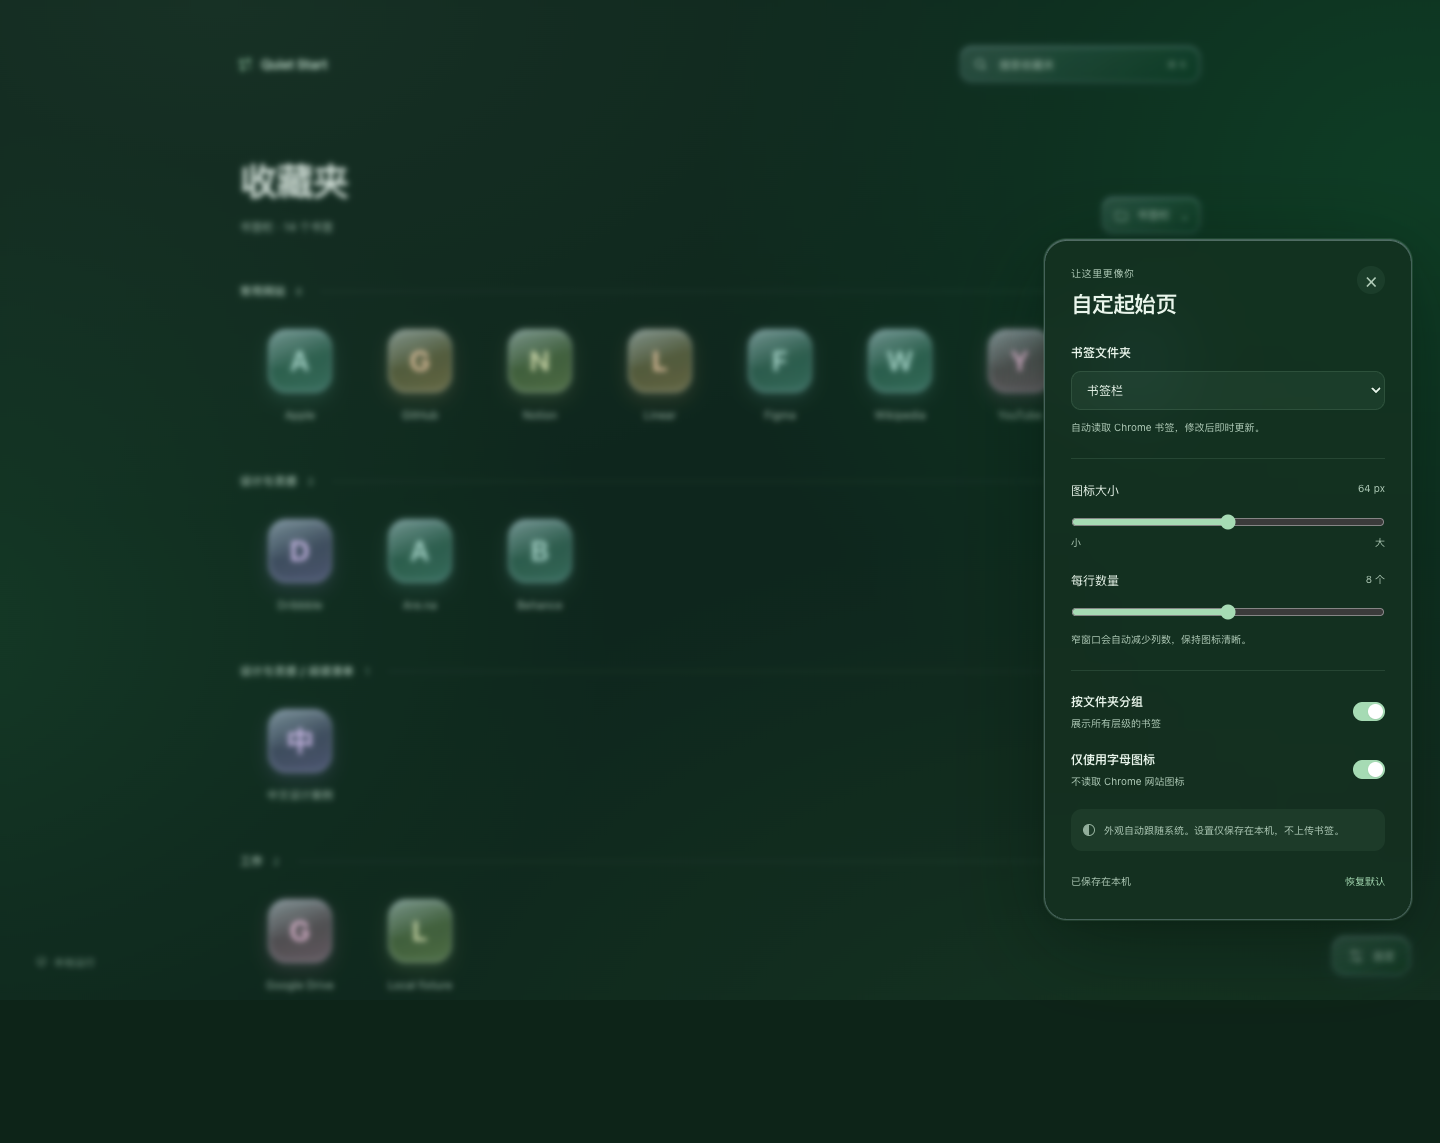
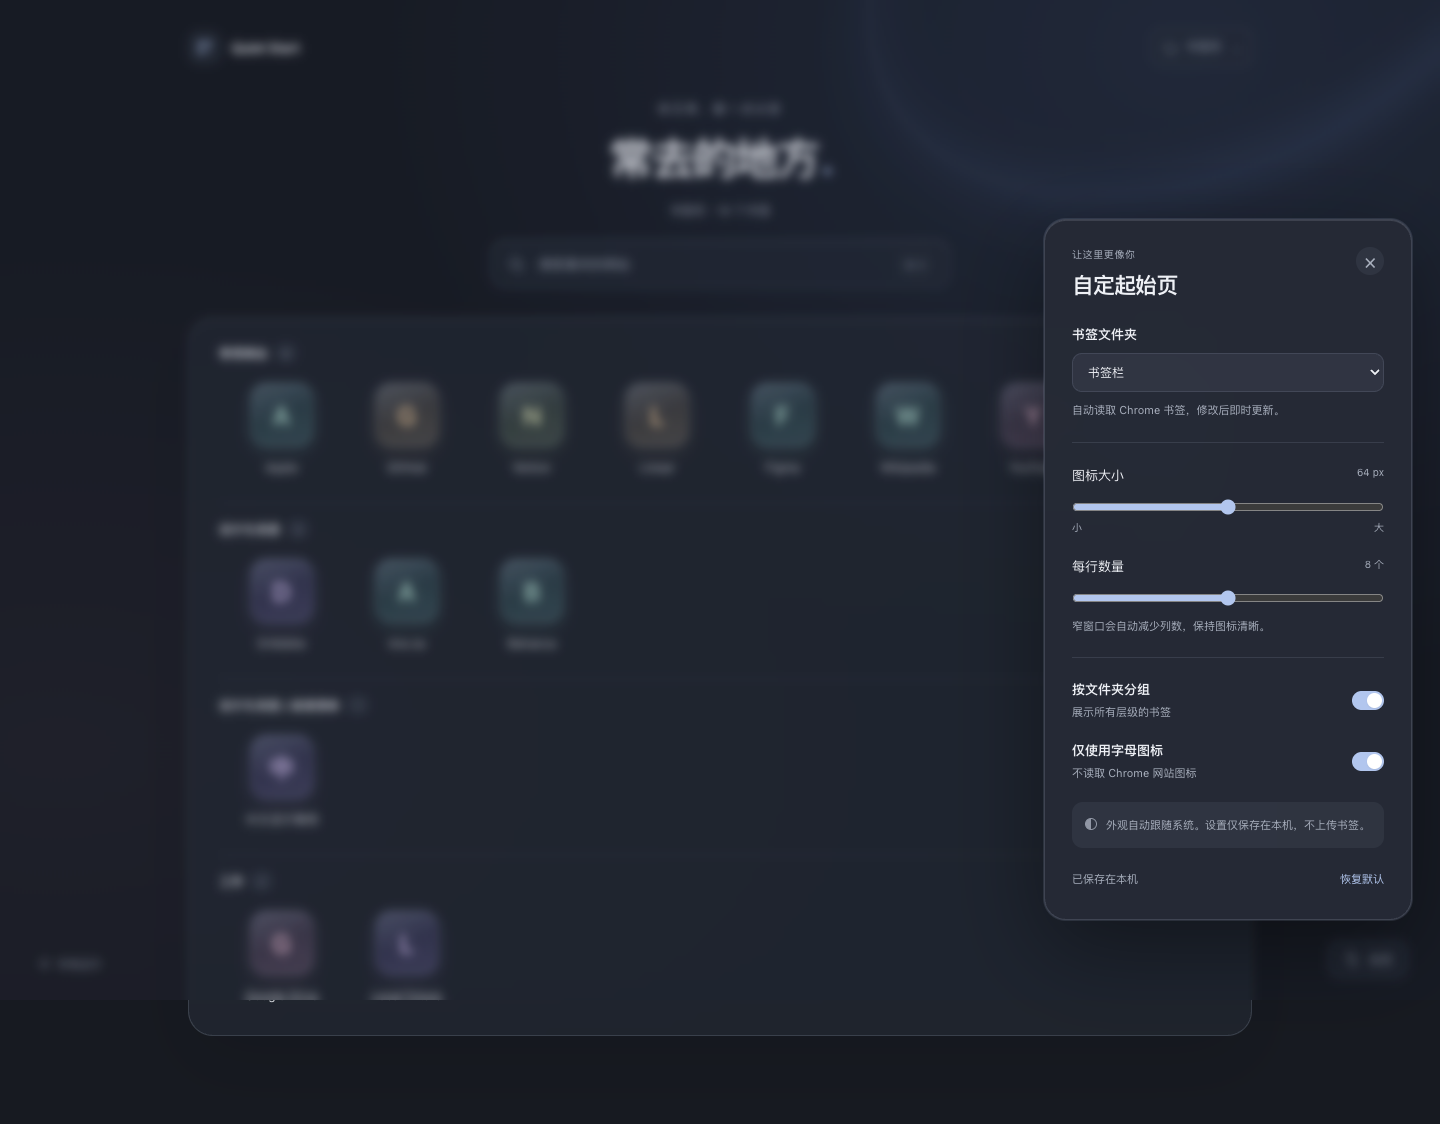
feat: release Air design with refined bookmark layout

diff --git a/styles.css b/styles.css
@@ -1,50 +1,37 @@
+/* Quiet Start — Air. Local system fonts, CSS materials, no remote assets. */
 :root {
-  color-scheme: light dark;
-  --bg: #e4efe7; --surface: #fafffb; --text: #173e2b;
-  --muted: #587461; --subtle: #728d78;
-  --line: rgba(0,86,31,.13); --soft: rgba(255,255,255,.35); --accent: #00561f;
-  --sky-blue: rgba(24,116,66,.32); --sky-mint: rgba(97,180,126,.30);
-  --sky-lilac: rgba(67,128,71,.20); --sky-white: rgba(255,255,255,.93);
-  --panel: rgba(246,253,248,.74); --panel-shadow: 0 24px 80px rgba(16,78,42,.16), 0 3px 10px rgba(16,78,42,.04);
-  --shine: rgba(255,255,255,.95); --glass-edge: rgba(255,255,255,.82);
-  --glass-top: rgba(255,255,255,.72); --glass-bottom: rgba(255,255,255,.18);
-  --glass-shine: rgba(255,255,255,.84); --glass-inner: rgba(255,255,255,.40);
-  --glass-rim: rgba(255,255,255,.96); --glass-base: rgba(255,255,255,.14);
-  --tile-top: .20; --tile-bottom: .40; --tile-shadow: .15;
-  --glyph-highlight: rgba(255,255,255,.65);
-  --tint-0: #376ca6; --tint-1: #7954a2; --tint-2: #996b37;
-  --tint-3: #397e70; --tint-4: #a35e83; --tint-5: #74803e;
-  --icon-size: 64px; --columns: 8; --cell-min: 96px; --cell-width: 112px;
-  font-family: -apple-system, BlinkMacSystemFont, "SF Pro Text", "Helvetica Neue", sans-serif;
-  font-size: 14px; -webkit-font-smoothing: antialiased;
+ color-scheme:light dark;
+ --bg:#f4f5f7; --surface:#ffffff; --text:#272b35; --muted:#68707e; --subtle:#7d8491;
+ --accent:#526b9a; --line:rgba(68,80,104,.10); --soft:rgba(89,107,143,.055);
+ --wash-blue:rgba(167,190,224,.24); --wash-warm:rgba(222,211,202,.22);
+ --panel:rgba(253,254,255,.94); --panel-shadow:0 30px 90px #27394a22,0 4px 12px #27394a0a;
+ --shine:rgba(255,255,255,.96); --glass-edge:rgba(255,255,255,.9);
+ --glass-top:rgba(255,255,255,.85); --glass-bottom:rgba(255,255,255,.48);
+ --glass-shine:rgba(255,255,255,.7); --glass-inner:rgba(255,255,255,.55); --glass-rim:rgba(255,255,255,.96); --glass-base:rgba(255,255,255,.25);
+ --board:rgba(255,255,255,.64); --board-shadow:0 24px 70px rgba(42,60,86,.035);
+ --tile-top:.025; --tile-bottom:.12; --tile-shadow:.08; --glyph-highlight:#fff;
+ --tint-0:#496b96; --tint-1:#77658e; --tint-2:#9b7849; --tint-3:#47786b; --tint-4:#98687c; --tint-5:#798048;
+ --icon-size:64px; --columns:8; --cell-min:96px; --cell-width:112px;
+ font-family:-apple-system,BlinkMacSystemFont,"SF Pro Text","PingFang SC","Helvetica Neue",sans-serif;
+ font-size:14px; -webkit-font-smoothing:antialiased;
 }
-@media (prefers-color-scheme: dark) {
-  :root {
-    --bg: #0d2418; --surface: #1d3c29; --text: #e9f5eb; --muted: #b0cbb8; --subtle: #8baa94;
-    --line: rgba(166,215,179,.13); --soft: rgba(185,249,204,.055); --accent: #a6dbb4;
-    --sky-blue: rgba(13,111,51,.32); --sky-mint: rgba(42,128,69,.23);
-    --sky-lilac: rgba(42,98,46,.24); --sky-white: rgba(70,111,80,.16);
-    --panel: rgba(23,48,33,.80); --panel-shadow: 0 24px 90px rgba(0,18,6,.38), 0 3px 10px rgba(0,18,6,.14);
-    --shine: rgba(222,244,255,.30); --glass-edge: rgba(211,237,255,.26);
-    --glass-top: rgba(218,240,255,.16); --glass-bottom: rgba(210,235,255,.025);
-    --glass-shine: rgba(225,245,255,.32); --glass-inner: rgba(220,243,255,.13);
-    --glass-rim: rgba(222,242,255,.36); --glass-base: rgba(193,227,255,.045);
-    --tile-top: .28; --tile-bottom: .44; --tile-shadow: .17; --glyph-highlight: rgba(0,10,25,.25);
-    --tint-0: #bfdefb; --tint-1: #e0c9fa; --tint-2: #f6d1a8;
-    --tint-3: #b8e8d9; --tint-4: #f4c5df; --tint-5: #e0e9b4;
-  }
+@media (prefers-color-scheme:dark) {
+ :root {
+  --bg:#171a21; --surface:#303641; --text:#eef0f5; --muted:#a8afbd; --subtle:#929cac; --accent:#b2c6ee;
+  --line:rgba(190,205,235,.12); --soft:rgba(190,205,235,.065);
+  --wash-blue:rgba(68,91,138,.23); --wash-warm:rgba(92,73,88,.13);
+  --panel:rgba(37,42,53,.96); --panel-shadow:0 30px 90px #0006;
+  --shine:rgba(230,239,255,.12); --glass-edge:rgba(218,231,255,.14);
+  --glass-top:rgba(210,226,255,.12); --glass-bottom:rgba(210,226,255,.025);
+  --glass-shine:rgba(210,226,255,.12); --glass-inner:rgba(220,233,255,.1); --glass-rim:rgba(220,233,255,.24); --glass-base:rgba(210,226,255,.03);
+  --board:rgba(35,40,51,.69); --board-shadow:0 24px 70px rgba(0,0,0,.1);
+  --tile-top:.12; --tile-bottom:.21; --tile-shadow:.08; --glyph-highlight:transparent;
+  --tint-0:#b5ccef; --tint-1:#cebbeb; --tint-2:#e6c396; --tint-3:#acd6c9; --tint-4:#dfb4c9; --tint-5:#d0d5ac;
+ }
 }
 * { box-sizing: border-box; }
 [hidden] { display: none !important; }
-body {
-  margin: 0; min-width: 280px; min-height: 100vh; background: var(--bg); color: var(--text);
-  background-image:
-    radial-gradient(ellipse 75% 65% at 15% 0%, var(--sky-white), transparent 80%),
-    radial-gradient(ellipse 65% 85% at 98% 18%, var(--sky-blue), transparent 76%),
-    radial-gradient(ellipse 65% 65% at -8% 62%, var(--sky-mint), transparent 78%),
-    radial-gradient(ellipse 85% 80% at 80% 112%, var(--sky-lilac), transparent 76%);
-  background-attachment: fixed;
-}
+body { margin:0; min-width:280px; min-height:100vh; color:var(--text); background:var(--bg); background-image:radial-gradient(ellipse at 82% 5%,var(--wash-blue),transparent 48%),radial-gradient(ellipse at 4% 75%,var(--wash-warm),transparent 48%); background-attachment:fixed; }
 button, input, select { font: inherit; }
 button, select, input[type=range], input[type=checkbox] { cursor: pointer; }
 button { color: inherit; -webkit-tap-highlight-color: transparent; }
@@ -176,22 +163,74 @@ input[role=switch]:checked::after { transform: translateX(13px); }
 .theme-indicator { width: 12px; height: 12px; flex: none; border: 1px solid currentColor; border-radius: 50%; margin-top: 3px; background: linear-gradient(90deg,currentColor 50%,transparent 50%); opacity: .8; }
 .dialog-footer { display: flex; justify-content: space-between; align-items: center; margin-top: 18px; font-size: 10px; color: var(--muted); }
 .dialog-footer .text-button { font-size: 10px; }
-@media (max-width: 720px) {
-  .page-shell { padding: 30px 24px 110px; }
-  .page-heading { margin-top: 58px; margin-bottom: 38px; }
-  h1 { font-size: 34px; }
-  .search-box { width: 210px; }
-  .page-footer { display: none; }
+
+/* A calm, centered start page with one translucent collection surface. */
+.ambient-shape { position:fixed; pointer-events:none; z-index:-1; width:760px; height:760px; top:-470px; left:calc(50% + 120px); border:1px solid var(--glass-edge); border-radius:50%; box-shadow:inset 0 -24px 65px var(--wash-blue),0 24px 60px var(--wash-blue); transform:rotate(-30deg) scaleY(.65); }
+.page-shell { max-width:1160px; padding:28px 48px 88px; }
+.topbar { min-height:38px; }
+.wordmark { color:var(--text); font-size:14px; font-weight:600; letter-spacing:-.035em; gap:10px; }
+.brand-mark { transform:none; grid-template-columns:repeat(2,5px); gap:3px; padding:9px; border-radius:11px; background:var(--board); border:1px solid var(--glass-edge); box-shadow:0 2px 5px #364b6c06; }
+.brand-mark i { width:5px; height:5px; border-radius:1.5px; }
+.folder-chip { margin:0; border-radius:12px; background:var(--board); box-shadow:0 2px 5px #364b6c03; color:var(--muted); max-width:45%; }
+.folder-chip .quick-folder-select { padding-top:10px; padding-bottom:10px; font-size:12px; }
+.page-heading { justify-content:center; text-align:center; margin:34px 0 20px; }
+.hero-kicker { display:block; color:var(--muted); font-size:12px; letter-spacing:.15em; margin-bottom:12px; }
+h1 { font-size:44px; line-height:1.3; font-weight:650; letter-spacing:-.05em; margin:0 0 15px; }
+.title-dot { color:var(--accent); margin-left:4px; }
+#summary { font-size:12px; color:var(--muted); }
+.search-box { margin:0 auto 30px; width:460px; max-width:100%; height:48px; padding:0 17px; border-radius:15px; background:var(--board); box-shadow:inset 0 1px 0 var(--shine),0 5px 16px #33466b04; gap:12px; }
+.search-box svg { width:17px; height:17px; }
+.search-box input { font-size:13px; }
+kbd { font-size:11px; border:1px solid var(--line); border-radius:5px; padding:3px 5px; opacity:1; color:var(--subtle); }
+.collection-surface { padding:25px 30px 21px; border-radius:25px; border:1px solid var(--glass-edge); background:var(--board); box-shadow:inset 0 1px 0 var(--shine),var(--board-shadow); backdrop-filter:blur(30px); }
+.bookmark-section + .bookmark-section { margin-top:16px; padding-top:17px; border-top:1px solid var(--line); }
+.section-heading { margin:0 0 14px; gap:8px; }
+.section-heading::after { display:none; }
+.section-heading h2 { color:var(--text); font-size:12px; font-weight:600; letter-spacing:.015em; }
+.section-count { font-size:10px; padding:2px 6px; background:var(--soft); border:1px solid var(--line); border-radius:6px; color:var(--muted); }
+.bookmark-grid { row-gap:20px; }
+.bookmark { padding:7px 5px 9px; gap:12px; border-radius:15px; transition:background .18s; }
+.bookmark:hover { background:var(--soft); }
+.bookmark-icon { border-radius:calc(var(--icon-size) * .26); box-shadow:inset 0 1px 0 var(--glass-rim),inset 0 -1px 1px var(--glass-inner),0 3px 7px rgba(45,60,90,.045),0 8px 15px rgba(var(--tile-rgb),var(--tile-shadow)); }
+.bookmark-icon::before { height:65%; opacity:.55; }
+.bookmark-icon::after { opacity:.5; }
+.bookmark:hover .bookmark-icon { transform:translateY(-3px); box-shadow:inset 0 1px 0 var(--glass-rim),0 9px 18px rgba(var(--tile-rgb),.14); }
+.bookmark-letter { font-size:calc(var(--icon-size) * .40); font-weight:600; }
+.bookmark-name { font-size:12px; color:var(--text); line-height:1.5; opacity:.88; }
+.breadcrumbs { margin:0 0 22px; font-size:12px; }
+.page-footer { bottom:28px; left:38px; font-size:11px; letter-spacing:0; }
+.settings-button { right:32px; bottom:22px; border-radius:12px; height:38px; font-size:12px; background:var(--board); box-shadow:0 3px 10px #33466b06; }
+dialog { border-radius:22px; padding:27px; }
+dialog::backdrop { background:rgba(28,37,54,.12); backdrop-filter:blur(5px); }
+.field-label,.range-heading,.toggle-row strong { font-size:13px; }
+.field-help,.toggle-row small,.settings-note p,.dialog-footer,.dialog-footer .text-button { font-size:11px; }
+.settings-note { padding:13px; }
+@media (max-width:720px) {
+ .page-shell { padding:24px 24px 100px; }
+ .page-heading { margin-top:43px; }
+ h1 { font-size:38px; }
+ .collection-surface { padding:23px 16px 18px; border-radius:21px; }
+ .search-box { margin-bottom:30px; }
+ .page-footer { display:none; }
 }
-@media (max-width: 440px) {
-  .topbar { gap: 14px; }
-  .wordmark { font-size: 12px; gap: 7px; }
-  .search-box { width: 164px; }
-  kbd { display: none; }
-  .page-heading { gap: 12px; }
-  .folder-chip { max-width: 45%; }
-  .page-eyebrow { font-size: 10px; letter-spacing: .035em; }
-  .settings-button { right: 20px; }
-  dialog { right: 16px; }
+@media (max-width:440px) {
+ .page-shell { padding:20px 16px 95px; }
+ .topbar { gap:12px; }
+ .wordmark { font-size:13px; gap:7px; }
+ .folder-chip { max-width:48%; }
+ .folder-chip .quick-folder-select { font-size:11px; }
+ .hero-kicker { font-size:11px; }
+ .page-heading { margin-top:38px; }
+ h1 { font-size:34px; }
+ .collection-surface { padding:22px 10px 16px; }
+ .section-heading { margin-left:5px; }
+ .bookmark-name { font-size:11px; }
+ .settings-button { right:18px; }
+ dialog { right:16px; }
 }
-@media (prefers-reduced-motion: reduce) { *, *::before, *::after { transition: none !important; } }
+@media (prefers-reduced-motion:reduce) { *,*::before,*::after { transition:none!important; animation:none!important; } }
+
+/* Neutral icon plates keep dark website marks readable in either theme. */
+.bookmark-icon.has-favicon { background:linear-gradient(155deg,#ffffff,#f0f2f6); border-color:rgba(255,255,255,.7); }
+.bookmark-icon.has-favicon::before { opacity:.2; }
+.bookmark-icon.has-favicon img { width:52%; height:52%; }

diff --git a/newtab.html b/newtab.html
@@ -11,24 +11,28 @@
   <script type="module" src="src/app.js"></script>
 </head>
 <body>
+  <div class="ambient-shape" aria-hidden="true"></div>
   <div class="page-shell">
     <header class="topbar">
       <div class="wordmark"><span class="brand-mark" aria-hidden="true"><i></i><i></i><i></i><i></i></span><span>Quiet Start</span></div>
-      <label class="search-box">
-        <svg viewBox="0 0 24 24" aria-hidden="true"><circle cx="10.8" cy="10.8" r="6.6"/><path d="m16 16 4.3 4.3"/></svg>
-        <input id="search" type="search" placeholder="搜索收藏夹" aria-label="搜索收藏夹" autocomplete="off" spellcheck="false">
-        <kbd aria-hidden="true">⌘ K</kbd>
-      </label>
-    </header>
-    <main id="main" aria-busy="true">
-      <div class="page-heading">
-        <div><h1>收藏夹</h1><p id="summary">正在读取 Chrome 书签…</p></div>
+
         <label class="folder-chip">
           <svg viewBox="0 0 24 24" aria-hidden="true"><path d="M3 7a2 2 0 0 1 2-2h5l2 2h7a2 2 0 0 1 2 2v9a2 2 0 0 1-2 2H5a2 2 0 0 1-2-2Z"/></svg>
           <select id="choose-folder" class="quick-folder-select" aria-label="选择收藏夹" disabled><option>正在读取…</option></select>
           <span class="folder-chevron" aria-hidden="true">⌄</span>
         </label>
+    </header>
+    <main id="main" aria-busy="true">
+      <div class="page-heading">
+        <div class="hero-copy"><span class="hero-kicker">给日常，留一点从容</span><h1>常去的地方<span class="title-dot">.</span></h1><p id="summary">正在读取 Chrome 书签…</p></div>
+
       </div>
+      <label class="search-box">
+        <svg viewBox="0 0 24 24" aria-hidden="true"><circle cx="10.8" cy="10.8" r="6.6"/><path d="m16 16 4.3 4.3"/></svg>
+        <input id="search" type="search" placeholder="搜索喜欢的网站" aria-label="搜索收藏夹" autocomplete="off" spellcheck="false">
+        <kbd aria-hidden="true">⌘ K</kbd>
+      </label>
+      <div class="collection-surface">
       <nav id="breadcrumbs" class="breadcrumbs" aria-label="文件夹路径" hidden></nav>
       <div id="notice" class="notice" role="status" hidden></div>
       <div id="content"></div>
@@ -37,6 +41,7 @@
         <h2 id="empty-title">这里还没有书签</h2>
         <p id="empty-description">按 ⌘ D 收藏一个网站，或选择其他书签文件夹。</p>
         <button id="empty-folder" class="text-button" type="button">选择文件夹</button>
+      </div>
       </div>
       <noscript>请在 Chrome 中启用 JavaScript 后重新打开新标签页。</noscript>
     </main>

diff --git a/src/app.js b/src/app.js
@@ -100,7 +100,7 @@ function createTile(item) {
     if (src) {
       const img = new Image();
       img.alt = ''; img.decoding = 'async'; img.loading = 'lazy';
-      img.addEventListener('load', () => { img.classList.add('loaded'); letter.hidden = true; });
+      img.addEventListener('load', () => { img.classList.add('loaded'); icon.classList.add('has-favicon'); letter.hidden = true; });
       img.addEventListener('error', () => { img.remove(); letter.hidden = false; });
       img.src = src; icon.append(img);
     }

diff --git a/README.md b/README.md
@@ -1,21 +1,22 @@
 # Quiet Start · 收藏夹起始页
 
-一个完全本地运行的 Chrome Manifest V3 扩展，将新标签页替换成清透绿色、iOS 玻璃图标风格的收藏夹网格。使用原生 HTML、CSS、JavaScript，安装不需要 Node、构建或联网。
+一个完全本地运行的 Chrome Manifest V3 扩展，将新标签页替换成雾白与石墨配色、轻玻璃图标风格的收藏夹网格。使用原生 HTML、CSS、JavaScript，安装不需要 Node、构建或联网。
 
 ![浅色起始页预览](docs/screenshots/light.png)
 
 [深色预览](docs/screenshots/dark.png) · [设置面板](docs/screenshots/settings.png) · [测试记录](docs/VERIFICATION.md)
 
-## v1.1.0 更新
+## v1.2.0 更新
 
-- 中大绿基调的清透背景，适配浅色与深色主题。
-- iOS 风格圆角图标，加入弧面高光、半透明亮边和柔和彩色投影。
+- 全新 Air 设计：雾白浅色、石墨深色，配少量冰蓝与银色高光。
+- 居中搜索与清晰的标题层级，分组收藏夹收纳在半透明面板中。
+- 图标采用更轻的玻璃材质；网站图标使用中性浅色底板，保持深色模式下的辨识度。
 - 右上角直接下拉切换收藏夹并保存；右下角继续提供完整设置。
 - 不增加权限，不引入外部图片、脚本或运行时依赖。
 
 ## Mac Chrome 快速安装
 
-1. 从 [Releases](https://github.com/ItsCh1pmunk/quiet-start/releases/latest) 下载 `quiet-start-1.1.0.zip`，解压到长期保留的位置，例如 `文稿/Chrome 扩展/quiet-start`。也可以使用 GitHub 的 Code → Download ZIP，或直接克隆本仓库。
+1. 从 [Releases](https://github.com/ItsCh1pmunk/quiet-start/releases/latest) 下载 `quiet-start-1.2.0.zip`，解压到长期保留的位置，例如 `文稿/Chrome 扩展/quiet-start`。也可以使用 GitHub 的 Code → Download ZIP，或直接克隆本仓库。
 2. 在 Chrome 地址栏输入 `chrome://extensions` 并回车。
 3. 打开页面右上角的「开发者模式」。
 4. 点击「加载已解压的扩展程序」，选择 **直接包含 `manifest.json` 的文件夹**。Release 包中为 `quiet-start`；GitHub 源码 ZIP 通常为 `quiet-start-main`。不要选 ZIP 文件。

diff --git a/docs/INSTALL-MAC.md b/docs/INSTALL-MAC.md
@@ -4,7 +4,7 @@
 
 ## 一、保留扩展文件夹
 
-从 [GitHub Releases](https://github.com/ItsCh1pmunk/quiet-start/releases/latest) 下载 `quiet-start-1.1.0.zip`，解压得到 `quiet-start` 文件夹。把它移动到长期保留的位置，例如 Finder 中「文稿 → Chrome 扩展」。进入该文件夹应直接看到 `manifest.json`、`newtab.html`、`styles.css`、`src` 和 `assets`。如果使用 GitHub 的 Code → Download ZIP，解压目录通常叫 `quiet-start-main`，同样选择直接包含 `manifest.json` 的这一层即可。
+从 [GitHub Releases](https://github.com/ItsCh1pmunk/quiet-start/releases/latest) 下载 `quiet-start-1.2.0.zip`，解压得到 `quiet-start` 文件夹。把它移动到长期保留的位置，例如 Finder 中「文稿 → Chrome 扩展」。进入该文件夹应直接看到 `manifest.json`、`newtab.html`、`styles.css`、`src` 和 `assets`。如果使用 GitHub 的 Code → Download ZIP，解压目录通常叫 `quiet-start-main`，同样选择直接包含 `manifest.json` 的这一层即可。
 
 Chrome 会直接从此位置读取扩展，安装后请勿删除或移动文件夹。整个工程无需联网下载资源。
 

diff --git a/CHANGELOG.md b/CHANGELOG.md
@@ -1,5 +1,13 @@
 # 更新记录
 
+## 1.2.0 — 2026-10-28
+
+- 全新 Air 视觉：雾白与石墨配色，少量冰蓝与银色高光。
+- 重排标题与居中搜索，将收藏夹分组收纳于半透明内容面板。
+- 减轻图标的彩色阴影，网站图标加载成功后使用中性浅色底板，兼顾深色模式下的可读性。
+- 保留右上角直接切换文件夹、右下角自定布局及全部本地书签功能。
+- 9 项基础测试、14 组真实浏览器场景回归通过；不新增权限或远程资源。
+
 ## 1.1.0 — 2026-10-28
 
 - 采用中大绿基调的清透背景，浅色与深色主题同步更新。

diff --git a/docs/VERIFICATION.md b/docs/VERIFICATION.md
@@ -1,6 +1,8 @@
-# v1.1.0 验收记录
+# v1.2.0 验收记录
 
 验证日期：2026-10-28（Asia/Shanghai）。
+
+本轮验证正式 Air 版本，包括居中搜索、半透明分组面板及网站图标的浅色底板。网页设计查看器的示例图标和模拟数据未包含在扩展中。
 
 ## 执行环境与结果
 
